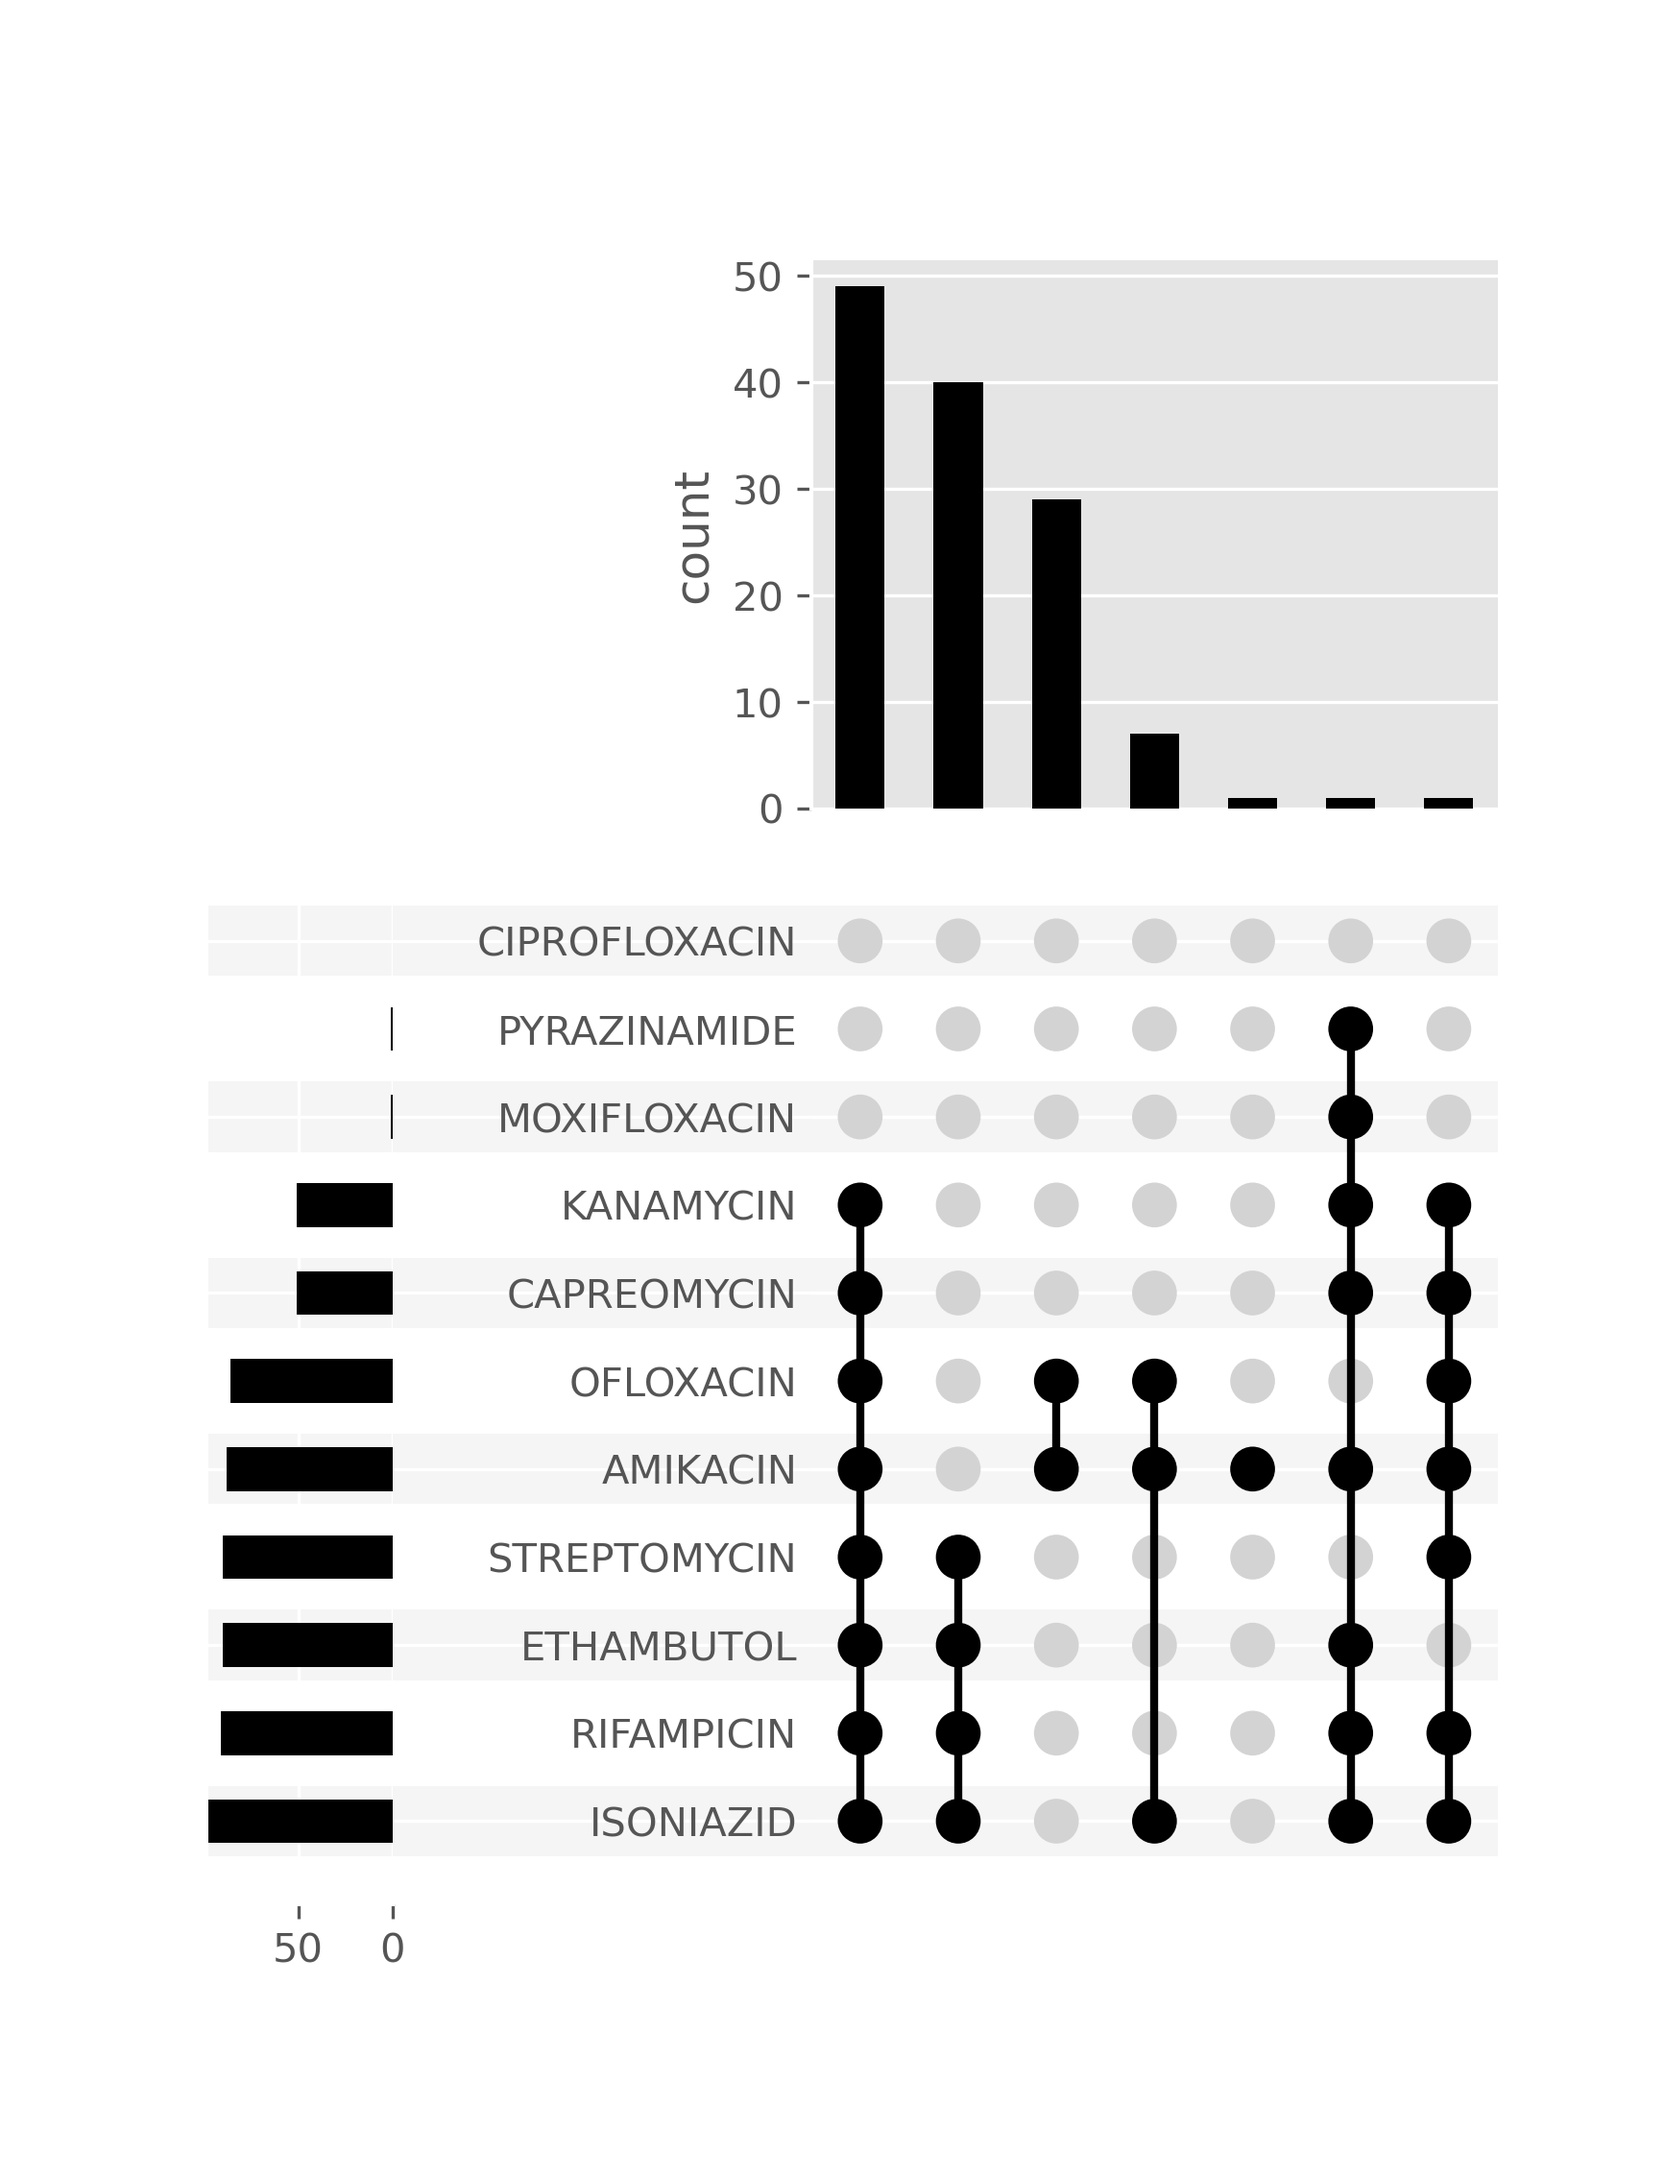
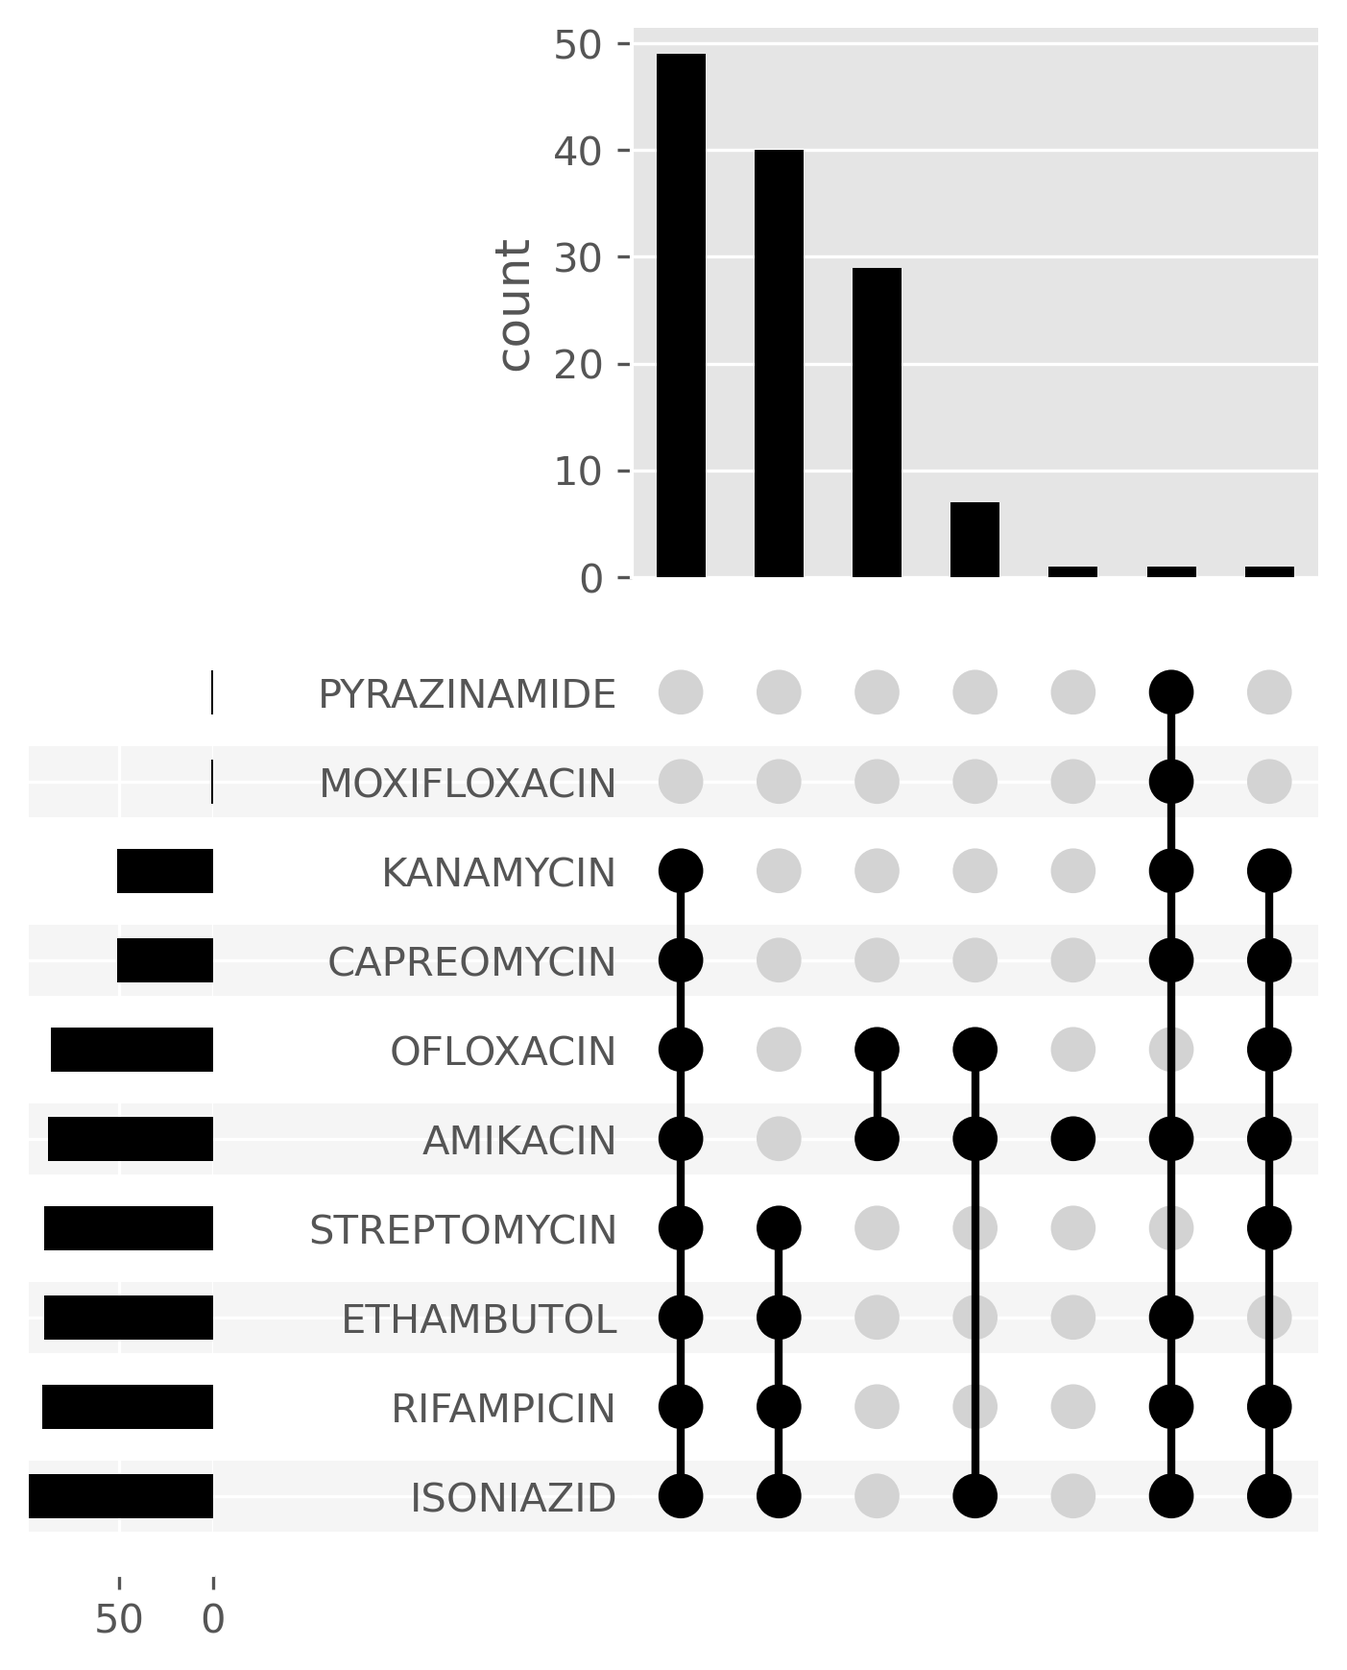
Drafting: add available DST info [#3]

diff --git a/Chapter3/chapter3.tex b/Chapter3/chapter3.tex
@@ -18,18 +18,56 @@
 \section{Publication and collaboration acknowledgements}
 \label{sec:ch3-acknowledge}
 
+A manuscript comprising the work in this chapter and \autoref{chap:clustering} is currently in preparation. In addition to the acknowledgements in \autoref{sec:ch2-acknowledge} the work not completed by myself in this chapter was the drug susceptibility testing (DST) in the laboratory.
+
+\todo[inline]{need to confirm all of this with collabs once I have received the text outlining the methods}
+
+The DST for the samples from Madagascar was conducted by Marie Sylvianne Rabodoarivelo and Simon Grandjean Lapierre. 
+
+\towrite[inline]{acknowledge the people who did the south african DST}
+
+\towrite[inline]{acknowledge the people who did the birmingham DST}
+
+
+While I did all bioinformatic work in this chapter, I must acknowledge the excellent guidance I have received. My supervisor Zamin Iqbal who always knows the right questions to ask. Simon Grandjean Lapierre helped conceive of this study, along with Zam, and whose clinical perspective helped keep me grounded in the real world. I would also like to acknowledge the many insightful conversations with our other collaborators: Marie Sylvianne Rabodoarivelo, Anastasia Koch, Niaina Rakotosamimanana, Anzaan Dippenaar, and Helen Cox. 
+
 %=========================================================================
 \section{Introduction}
 
 %=========================================================================
 \section{Dataset}
 % refer to previous chapter for sequencing info and mention we use the samples that passed QC
+The \mtb{} samples used in this chapter are those described in \autoref{sec:ch2-dataset}. We use the 150 samples that passed quality control (\autoref{sec:ch2-qc}).
 
-\subsection{DST}
+\subsection{Drug susceptibility testing}
 % I have asked the collaborators for the DST methods
+\towrite[inline]{waiting for text from collaborators}
 
-% add the upset plot summarising the available phenotype data
-% also add a table with the raw numbers for the upset plot
+\noindent
+In total, 128 samples have phenotypic information for at least one drug, with 80 having phenotypes for eight drugs. \autoref{tab:available-dst} shows the number of samples with culture-based DST for each drug and \autoref{fig:available-dst} depicts the combinations of drugs available for samples. For instance, in \autoref{fig:available-dst}, the third column reveals that 29 samples have phenotype information for ofloxacin and amikacin, while row three shows that 51 samples have available DST for kanamycin. 
+
+Although line probe assays (LPAs) were also completed for many samples, we base our analysis of concordance with phenotype on the culture-based DST data. However, we do use the LPA information to inform reasons for possible errors with drug prediction. \autoref{tab:full-dst} and \autoref{fig:full-dst} in \autoref{sec:full-dst} shows the full available DST data from both culture-based and LPA methods.
+
+\begin{table}
+\centering
+\begin{tabular}{|l|c|}
+\hline
+Drug         & Count \\ \hline
+Amikacin     & 88    \\ \hline
+Capreomycin  & 51    \\ \hline
+Ethambutol   & 90    \\ \hline
+Isoniazid    & 98    \\ \hline
+Kanamycin    & 51    \\ \hline
+Moxifloxacin & 1     \\ \hline
+Ofloxacin    & 86    \\ \hline
+Pyrazinamide & 1     \\ \hline
+Rifampicin   & 91    \\ \hline
+Streptomycin & 90    \\ \hline
+\end{tabular}
+\caption{Culture-based drug susceptibility data available for samples. The counts are the number of samples with phenotype information available for that drug.}
+\label{tab:available-dst}
+\end{table}
+
 \begin{figure}
 \begin{center}
 \includegraphics[width=0.90\columnwidth]{Chapter3/Figs/available_dst.png}
@@ -51,6 +89,8 @@
 
 %=========================================================================
 \section{Concordance with phenotype}
+
+We exclude moxifloxacin and pyrazinamide from the phenotype concordance analysis as DST was only performed for one sample (see \autoref{tab:available-dst}).
 %  alot of FP ethambutol are M306 mutation which is strongly associated with resistance https://europepmc.org/article/PMC/4505224
 
 \begin{figure}

diff --git a/Appendix2/appendix2.tex b/Appendix2/appendix2.tex
@@ -1,3 +1,47 @@
 %!TEX root = ../thesis.tex
 % ******************************* Thesis Appendix B ****************************
 \chapter{Supporting work for \autoref*{chap:dst}}
+
+% =======================================
+\section{Full drug susceptibility data available}
+\label{sec:full-dst}
+
+Available phenotype information for culture-based \emph{and} line probe assay (LPA) drug susceptibility testing (DST) are shown in \autoref{tab:full-dst} and \autoref{fig:full-dst}.
+
+\begin{table}
+\centering
+\begin{tabular}{|l|c|}
+\hline
+Drug              & Count \\ \hline
+Amikacin          & 88    \\ \hline
+Amikacin-LPA      & 30    \\ \hline
+Capreomycin       & 51    \\ \hline
+Capreomycin-LPA   & 27    \\ \hline
+Ciprofloxacin-LPA & 5     \\ \hline
+Ethambutol        & 90    \\ \hline
+Ethambutol-LPA    & 21    \\ \hline
+Isoniazid         & 98    \\ \hline
+Isoniazid-LPA     & 124   \\ \hline
+Kanamycin         & 51    \\ \hline
+Kanamycin-LPA     & 27    \\ \hline
+Moxifloxacin      & 1     \\ \hline
+Moxifloxacin-LPA  & 5     \\ \hline
+Ofloxacin         & 86    \\ \hline
+Ofloxacin-LPA     & 30    \\ \hline
+Pyrazinamide      & 1     \\ \hline
+Rifampicin        & 91    \\ \hline
+Rifampicin-LPA    & 124   \\ \hline
+Streptomycin      & 90    \\ \hline
+\end{tabular}
+\caption{Culture-based and line probe assay (LPA) drug susceptibility data available for samples. The counts are the number of samples with phenotype information available for that drug.}
+\label{tab:full-dst}
+\end{table}
+
+\begin{figure}
+\begin{center}
+\includegraphics[width=0.90\columnwidth]{Appendix2/Figs/full-available-dst.png}
+\caption{{Culture-based and line probe assay (LPA) drug susceptibility data available for samples. Each row is a drug, and the columns represent a set of samples that have phenotype information for those drugs with a filled cell. The top panel shows the number of samples in the set for that combination of drugs. The bar plot in the left panel shows the number of samples with phenotype information for that drug.
+{\label{fig:full-dst}}
+}}
+\end{center}
+\end{figure}

diff --git a/Chapter2/chapter2.tex b/Chapter2/chapter2.tex
@@ -42,7 +42,7 @@ In this chapter, we evaluate whether \ont{} sequencing can provide \mtb{} transm
 %=========================================================================
 
 \section{Dataset}
-\label{sec:dataset}
+\label{sec:ch2-dataset}
 
 The data used for the work in this chapter, and \autoref{chap:dst}, are patient-derived \mtb{} isolates from culture. We gathered samples from Madagascar (118), South Africa (83), and England's National Mycobacteria Reference Service in Birmingham (46), giving us a total of 247 samples.  
 Each sample was sequenced on both \ont{} and Illumina platforms. We aimed to perform all sequencing for a sample from a single DNA extraction. Performing all sequencing on the same DNA extract ensures that any variation identified between technologies for the same sample would be due to differences in the sequencing platform and not \textit{in vitro} evolution.  

diff --git a/thesis.tex b/thesis.tex
@@ -177,10 +177,10 @@
 
 % ********************************** Appendices ********************************
 
-\begin{appendices} % Using appendices environment for more functunality
+\begin{appendices} % Using appendices environment for more functionality
 
 \include{Appendix1/appendix1}
-% \include{Appendix2/appendix2}
+\include{Appendix2/appendix2}
 
 \end{appendices}
 

diff --git a/Preamble/preamble.tex b/Preamble/preamble.tex
@@ -214,6 +214,8 @@
 \nomenclature[z-FRS]{FRS}{Fraction of read support}
 \nomenclature[z-PHE]{PHE}{Public Health England}
 \nomenclature[z-STEC]{STEC}{Shiga toxin-producing \ecoli{}}
+\nomenclature[z-DST]{DST}{Drug susceptibility testing}
+\nomenclature[z-LPA]{LPA}{Line probe assay}
 
 
 % ********************************* Appendix ***********************************
